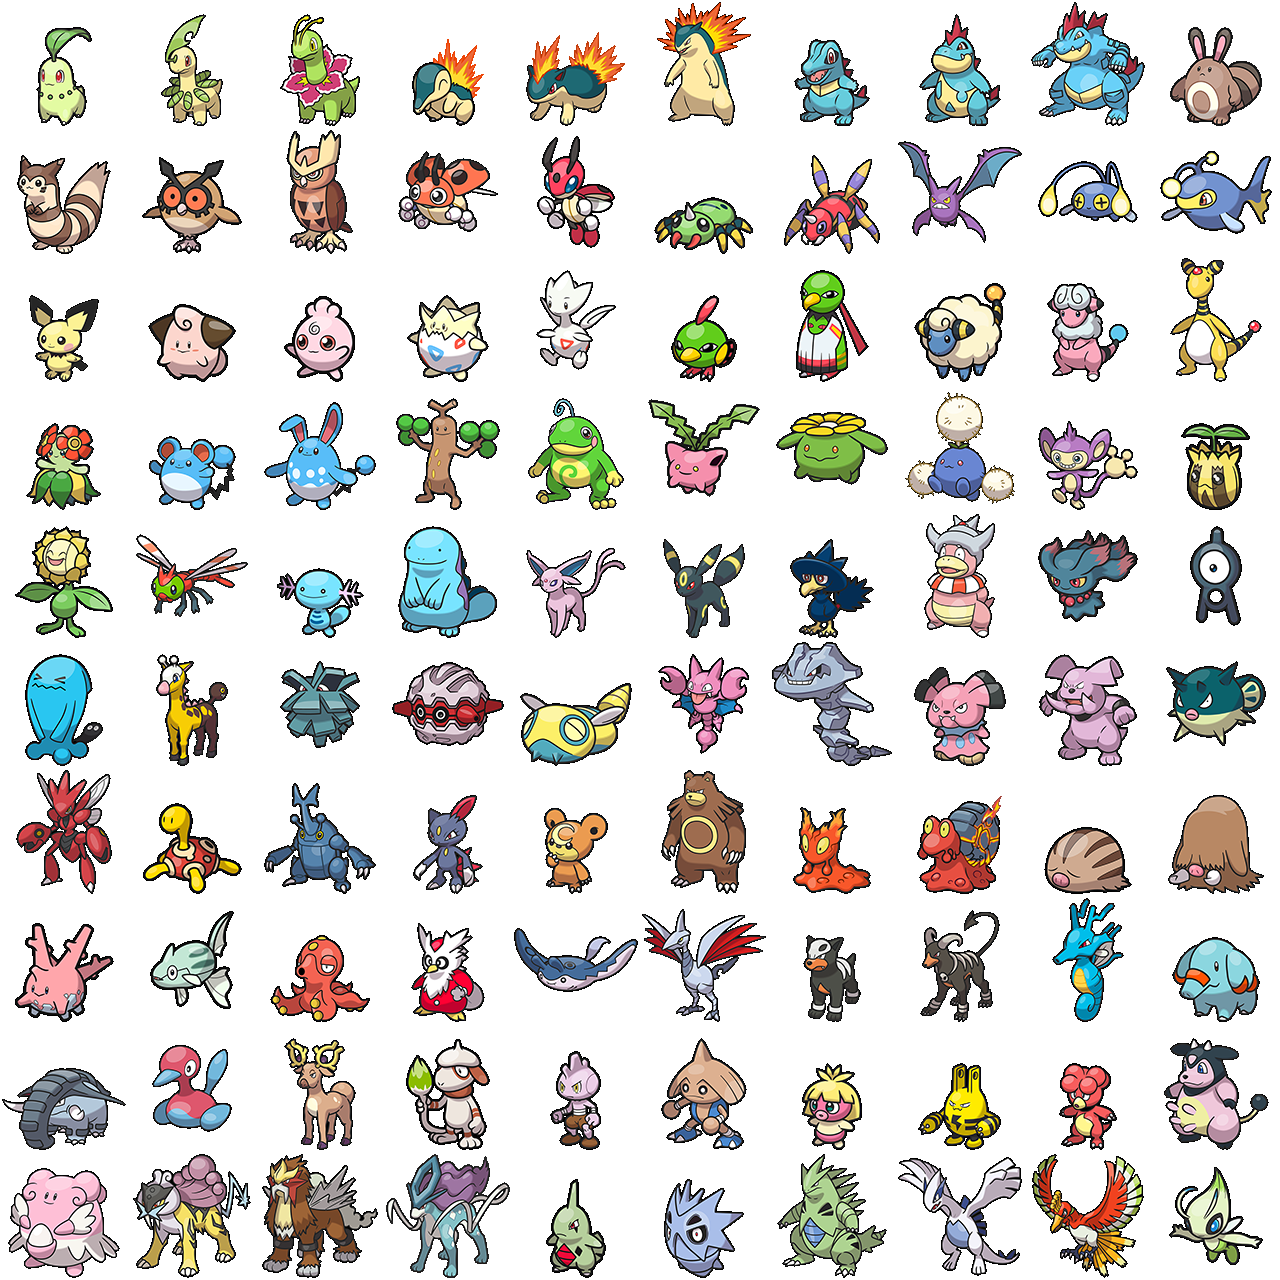
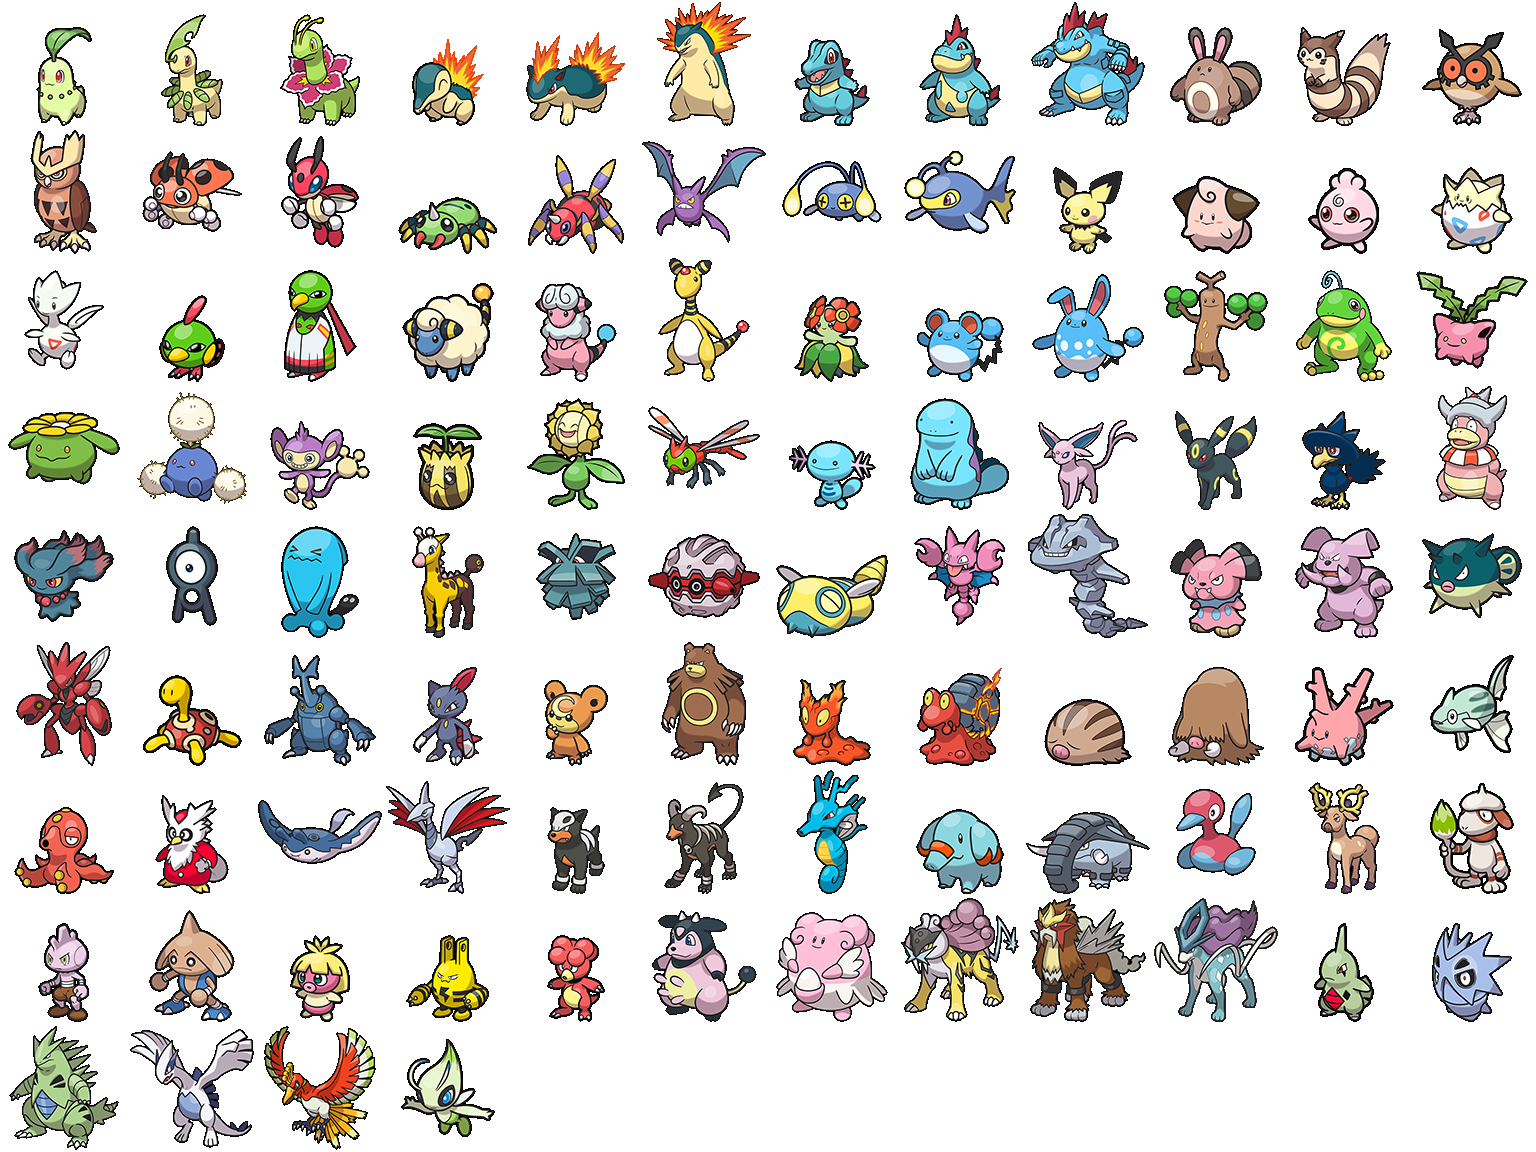
fix gen 2 and button upper

diff --git a/prototypepokemonstats/Main.py b/prototypepokemonstats/Main.py
@@ -157,6 +157,16 @@ def indietro():
     # Aggiorna le textbox quando si seleziona un nuovo Pokémon
     popola_textbox()
 
+def GenButton(buttongen):
+    print("button gen " , buttongen)
+    if buttongen == 0:
+        cmb_pokemon.current(0)
+    elif buttongen == 1:
+        cmb_pokemon.current(151)
+
+    # Aggiorna le textbox quando si seleziona un nuovo Pokémon
+    popola_textbox()
+
 # Funzione per mostrare le informazioni del programma
 def mostra_informazioni():
     info_window = tk.Toplevel(root)
@@ -318,7 +328,7 @@ root = tk.Tk()
 root.title("LCPM - Local Calculator Pokemon")
 
 # Impostazione delle dimensioni della finestra
-root.geometry("800x530")
+root.geometry("800x515")
 root.resizable(False,False)
 root.iconbitmap('icon.ico')
 
@@ -367,7 +377,7 @@ red_panel3.place(x=0,y=410)
 #aggiunta PULSANTI CAMBIO GENERAZIONI POKEMON
 gen_texts = ["I", "II", "III", "IV", "V", "VI", "VII", "VIII", "IX"]
 for i in range(9):
-    gen_button = tk.Button(root, text=gen_texts[i],bg="#DE313D")
+    gen_button = tk.Button(root, text=gen_texts[i],bg="#DE313D",command=lambda index=i: GenButton(index))
     gen_button.place(x=20+i*40, y=15, width=40)
 
 #FINE UI LATO DESTRO DEL FORM-----------------------------------------------------------------------------
@@ -404,14 +414,6 @@ image_type2_frame.place(x=620, y=310)
 cmb_nature = ttk.Combobox(root)
 cmb_nature.bind("<<ComboboxSelected>>", lambda event: Reset())
 cmb_nature.place(x=550, y=355)
-
-# Pulsante "Indietro"
-""" indietroNatura_button = tk.Button(root, text="<--")
-indietroNatura_button.place(x=510, y=355)
-
-# Pulsante "Avanti"
-avantiNatura_button = tk.Button(root, text="-->")
-avantiNatura_button.place(x=700, y=355) """
 
 #FINE UI LATO DESTRO DEL FORM-----------------------------------------------------------------------------
 

diff --git a/prototypepokemonstats/ui_management.py b/prototypepokemonstats/ui_management.py
@@ -5,13 +5,18 @@ from PIL import Image, ImageTk
 #funzione che estrae l'immagine icona del pokemon
 def mostra_immagine_pokemon_ui(id_pokemon):
     try:
+
+        # far partire id_pokemon da 1 nuovamente per le nuove gen
         gen_selection = "I"
-        if id_pokemon <= 151 : gen_selection = "I"
-        if id_pokemon > 151 : gen_selection = "II" 
+        if id_pokemon <= 151 :
+            gen_selection = "I"
+        if id_pokemon >= 152 :
+            gen_selection = "II"
+            id_pokemon -= 151 
+
         print("prototypepokemonstats/Gen"+gen_selection+".png")
         spritesheet = Image.open("prototypepokemonstats/Gen"+gen_selection+".png")
-        # far partire id_pokemon da 1 nuovamente per le nuove gen
-
+       
         # Dimensioni delle immagini nel spritesheet
         larghezza_immagine = 128
         altezza_immagine = 128
